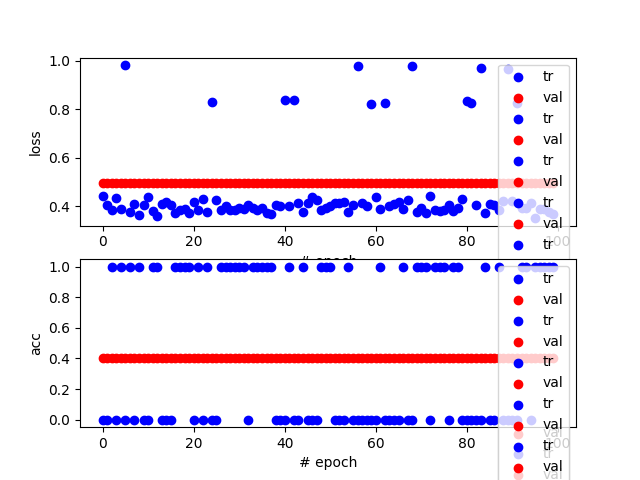
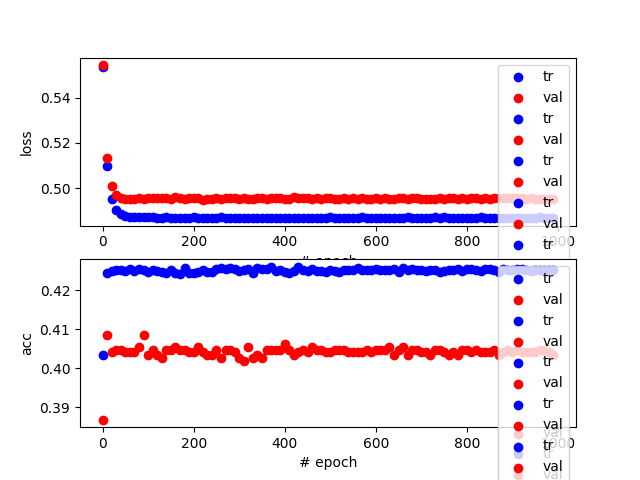
[add] added an answer on 79.

diff --git a/ch08/mlp_79.py b/ch08/mlp_79.py
@@ -4,14 +4,41 @@ import random
 import numpy as np
 from torch import nn
 import torch.optim as optim
-from single_layer_predict_71 import seed_everything, Net
+from single_layer_predict_71 import seed_everything
 import matplotlib.pyplot as plt
 from torch.utils.data import Dataset, DataLoader
 import time
 
-def calc_acc(tensor_pred, tensor_label: torch.tensor) -> float:
+class Net(nn.Module):
+    def __init__(self, in_shape: int, out_shape: int):
+        super().__init__()
+        self.fc1 = nn.Linear(in_shape, 128, bias=True)
+        self.dropout1 = nn.Dropout(0.5)
+        self.bn1 = nn.BatchNorm1d(128, affine=True)
+        self.relu = nn.ReLU()
+        self.fc2 = nn.Linear(128, 128, bias=True)
+        self.dropout2 = nn.Dropout(0.5)
+        self.bn2 = nn.BatchNorm1d(128, affine=True)
+        self.fc3 = nn.Linear(128, out_shape, bias=True)
+        self.softmax = nn.Softmax(dim=1)
+
+    def forward(self, x):
+        x = self.fc1(x)
+        x = self.dropout1(x)
+        x = self.bn1(x)
+        x = self.relu(x)
+        x = self.fc2(x)
+        x = self.dropout2(x)
+        x = self.bn2(x)
+        x = self.relu(x)
+        x = self.fc3(x)
+        x = self.softmax(x)
+        return x
+
+def calc_acc(tensor_pred: torch.tensor, tensor_label: torch.tensor) -> float:
     y_te_pred = torch.argmax(tensor_pred, dim=1)
     y_label = torch.argmax(tensor_label, dim=1)
+    
     acc = (y_te_pred == y_label).sum().item() / y_label.shape[0]
   
     assert acc >= 0 and acc <= 1
@@ -36,8 +63,8 @@ def train(BATCH_SIZE=None, EPOCH=None):
     ckpt_dir = './data/checkpoint/'
     if not os.path.exists(ckpt_dir):
         os.mkdir(ckpt_dir)
-    modelpath = os.path.join(ckpt_dir, 'torch_single_layer_77.pth')
-    figpath ='./data/torch_training_77.png'
+    modelpath = os.path.join(ckpt_dir, 'torch_single_layer_79.pth')
+    figpath ='./data/torch_training_79.png'
 
     train_path = os.path.join(filedir_in, 'train.pt')
     x_train = torch.load(train_path).to(device)
@@ -82,12 +109,18 @@ def train(BATCH_SIZE=None, EPOCH=None):
             loss = criterion(y_pred, y_tr)
             loss.backward()
             optimizer.step()
-        
+
         y_pred = net.forward(x_train)
         loss = criterion(y_pred, y_tr_label)
         tr_loss.append(loss.item())
         acc = calc_acc(y_pred, y_tr_label)
         tr_acc.append(acc)
+
+        if epoch % 10 == 0:
+            plt.subplot(2,1,1)
+            plt.scatter(epoch, loss.item(), color='blue', label='tr')
+            plt.subplot(2,1,2)
+            plt.scatter(epoch, acc, color='blue', label='tr')
         '''
         torch.save(
             {
@@ -100,10 +133,6 @@ def train(BATCH_SIZE=None, EPOCH=None):
                 '_epoch' + str(epoch).zfill(3) + '.pth'))
         
 
-        plt.subplot(2,1,1)
-        plt.scatter(epoch, loss.item(), color='blue', label='tr')
-        plt.subplot(2,1,2)
-        plt.scatter(epoch, acc, color='blue', label='tr')
         '''
         
         y_pred = net.forward(x_val)
@@ -112,19 +141,18 @@ def train(BATCH_SIZE=None, EPOCH=None):
         acc = calc_acc(y_pred, y_val_label)
         val_acc.append(acc)
 
-        '''
-        plt.subplot(2,1,1)
-        plt.scatter(epoch, loss.item(), color='red', label='val')
-        plt.subplot(2,1,2)
-        plt.scatter(epoch, acc, color='red', label='val')
-        '''
+        
+        if epoch % 10 == 0:
+            plt.subplot(2,1,1)
+            plt.scatter(epoch, loss.item(), color='red', label='val')
+            plt.subplot(2,1,2)
+            plt.scatter(epoch, acc, color='red', label='val')
+
+            # print(tr_loss[-1], tr_acc[-1], val_loss[-1], val_acc[-1])
+
     print('Time per epoch:', 
         '{:.4f}[s]'.format((time.time() - start_time)/EPOCH),
         'Batch Size B =', BATCH_SIZE)
-    plt.subplot(2,1,1)
-    plt.legend()
-    plt.subplot(2,1,2)
-    plt.legend()
     torch.save(net.state_dict(), modelpath)
     plt.savefig(figpath)
     
@@ -142,11 +170,4 @@ if __name__ == "__main__":
     |                               |                      |                  N/A |
     +-------------------------------+----------------------+----------------------+
     '''
-    if not torch.cuda.is_available():
-        print('This script is only for GPU machines. The script will quit.')
-        exit()
-    train(BATCH_SIZE=16, EPOCH=100) # Time per epoch: 0.5104[s] Batch Size B = 16
-    train(BATCH_SIZE=8, EPOCH=100) # Time per epoch: 0.9829[s] Batch Size B = 8
-    train(BATCH_SIZE=4, EPOCH=100) # Time per epoch: 1.9127[s] Batch Size B = 4
-    train(BATCH_SIZE=2, EPOCH=100) # Time per epoch: 3.7390[s] Batch Size B = 2
-    train(BATCH_SIZE=1, EPOCH=100) # Time per epoch: 7.4652[s] Batch Size B = 1
+    train(BATCH_SIZE=256, EPOCH=200) # 0.4107946026986507

diff --git a/ch08/minibatch_77.py b/ch08/minibatch_77.py
@@ -80,9 +80,12 @@ def train(BATCH_SIZE=None, EPOCH=None):
             loss = criterion(y_pred, y_tr)
             loss.backward()
             optimizer.step()
-            tr_loss.append(loss.item())
-            acc = calc_acc(y_pred, y_tr)
-            tr_acc.append(acc)
+        
+        y_pred = net.forward(x_train)
+        loss = criterion(y_pred, y_tr_label)
+        tr_loss.append(loss.item())
+        acc = calc_acc(y_pred, y_tr_label)
+        tr_acc.append(acc)
 
         torch.save(
             {
